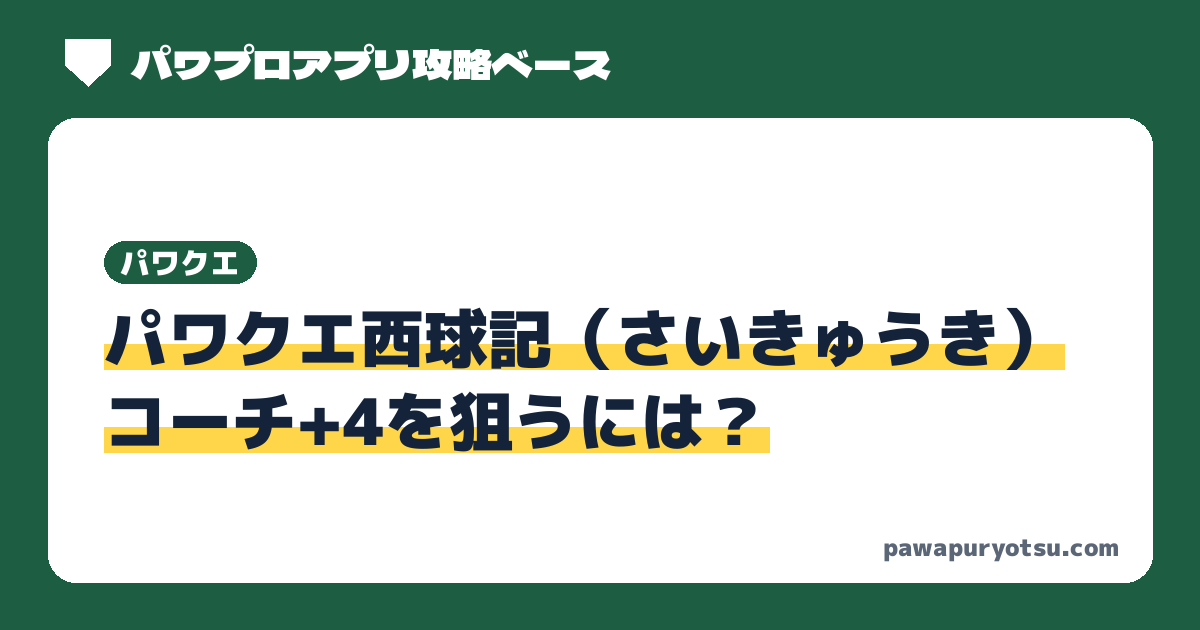
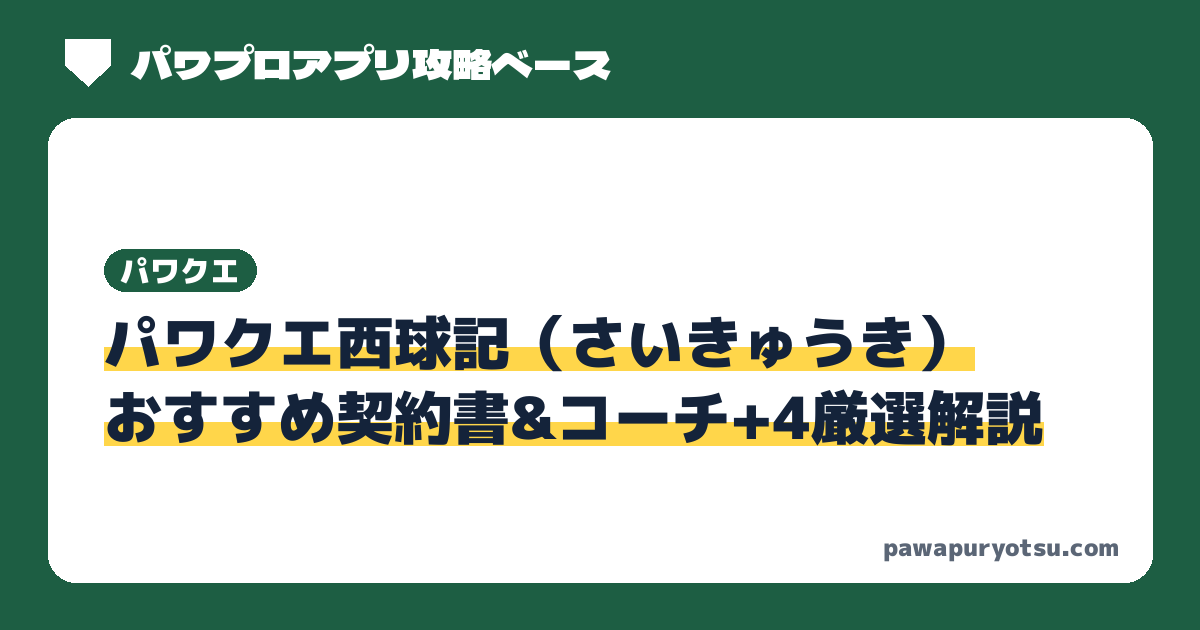
西球記：コーチ+4記事のタイトルを「おすすめ契約書&コーチ+4厳選解説」に変更
Claude-Session: https://claude.ai/code/session_019YJeSxWzSmHS2gUevN1rqG

Changed region(s): [[0.0925, 0.3619, 0.8942, 0.7238]]

diff --git a/docs/pawaque/saikyuki/coach4/index.html b/docs/pawaque/saikyuki/coach4/index.html
@@ -4,12 +4,12 @@
 <meta charset="utf-8">
 <meta name="viewport" content="width=device-width,initial-scale=1,viewport-fit=cover">
 <meta name="color-scheme" content="light">
-<title>パワクエ西球記（さいきゅうき）コーチ+4を狙うには？｜パワプロアプリ攻略ベース</title>
+<title>パワクエ西球記（さいきゅうき）おすすめ契約書&コーチ+4厳選解説｜パワプロアプリ攻略ベース</title>
 <meta name="description" content="パワプロアプリのパワクエ「西球記（さいきゅうき）」で、契約書のコーチ人数+4を狙う方法と、おすすめの契約書、神前試合などで手に入る別バージョンキャラの一覧をまとめています。">
 <link rel="canonical" href="https://pawapuryotsu.com/pawaque/saikyuki/coach4/">
 <meta property="og:type" content="website">
 <meta property="og:site_name" content="パワプロアプリ攻略ベース">
-<meta property="og:title" content="パワクエ西球記（さいきゅうき）コーチ+4を狙うには？｜パワプロアプリ攻略ベース">
+<meta property="og:title" content="パワクエ西球記（さいきゅうき）おすすめ契約書&コーチ+4厳選解説｜パワプロアプリ攻略ベース">
 <meta property="og:description" content="パワプロアプリのパワクエ「西球記（さいきゅうき）」で、契約書のコーチ人数+4を狙う方法と、おすすめの契約書、神前試合などで手に入る別バージョンキャラの一覧をまとめています。">
 <meta property="og:url" content="https://pawapuryotsu.com/pawaque/saikyuki/coach4/">
 <meta property="og:image" content="https://pawapuryotsu.com/img/og/pawaque_saikyuki_coach4.png">
@@ -29,7 +29,7 @@
 <script async src="https://pagead2.googlesyndication.com/pagead/js/adsbygoogle.js?client=ca-pub-8546020269968696" crossorigin="anonymous"></script>
 <script async src="https://www.googletagmanager.com/gtag/js?id=G-F98XGNW3LS"></script>
 <script>window.dataLayer=window.dataLayer||[];function gtag(){dataLayer.push(arguments)}gtag('js',new Date());gtag('config','G-F98XGNW3LS');</script><meta name="google-site-verification" content="ZgxID967oum-2Mm1F5BCX9gvQE_vNl2ZDbXXWfyYP10" />
-<script type="application/ld+json">{"@context": "https://schema.org", "@type": "BreadcrumbList", "itemListElement": [{"@type": "ListItem", "position": 1, "name": "トップ", "item": "https://pawapuryotsu.com/"}, {"@type": "ListItem", "position": 2, "name": "パワクエ", "item": "https://pawapuryotsu.com/pawaque/"}, {"@type": "ListItem", "position": 3, "name": "西球記", "item": "https://pawapuryotsu.com/pawaque/saikyuki/"}, {"@type": "ListItem", "position": 4, "name": "コーチ+4を狙うには？", "item": "https://pawapuryotsu.com/pawaque/saikyuki/coach4/"}]}</script>
+<script type="application/ld+json">{"@context": "https://schema.org", "@type": "BreadcrumbList", "itemListElement": [{"@type": "ListItem", "position": 1, "name": "トップ", "item": "https://pawapuryotsu.com/"}, {"@type": "ListItem", "position": 2, "name": "パワクエ", "item": "https://pawapuryotsu.com/pawaque/"}, {"@type": "ListItem", "position": 3, "name": "西球記", "item": "https://pawapuryotsu.com/pawaque/saikyuki/"}, {"@type": "ListItem", "position": 4, "name": "おすすめ契約書&コーチ+4厳選解説", "item": "https://pawapuryotsu.com/pawaque/saikyuki/coach4/"}]}</script>
 </head>
 <body data-root="../../../">
 <svg width="0" height="0" style="position:absolute" aria-hidden="true">
@@ -55,7 +55,7 @@
 </div></header>
 
 <main><div class="wrap" id="page">
-<nav class="crumbs" aria-label="パンくずリスト"><ol><li><a href="../../../">トップ</a></li><li><a href="../../../pawaque/">パワクエ</a></li><li><a href="../../../pawaque/saikyuki/">西球記</a></li><li aria-current="page">コーチ+4を狙うには？</li></ol></nav>
+<nav class="crumbs" aria-label="パンくずリスト"><ol><li><a href="../../../">トップ</a></li><li><a href="../../../pawaque/">パワクエ</a></li><li><a href="../../../pawaque/saikyuki/">西球記</a></li><li aria-current="page">おすすめ契約書&amp;コーチ+4厳選解説</li></ol></nav>
 <!-- 2026-11-22 管理人：新ページ「コーチ+4を狙うには？」。本文は tools/pawaque_coach4.py が src/pawaque_data/saikyuki_coach4.json と契約書シミュレータのデータから作る（C4:START〜END は手で書かない）。 -->
 <style>
 .c4-v{color:#1a5fd0;font-weight:700}
@@ -96,7 +96,7 @@
  .c4-mb{display:inline}
 }
 </style>
-<section class="phead"><p class="eyebrow">パワクエ 西球記</p><h1><span class="mk"><i>コーチ+4を狙うには？</i></span></h1><p>コーチ人数+4の契約書を狙う方法と、おすすめの契約書・<span class="cp-nw">別バージョンキャラ一覧を</span><span class="cp-nw">まとめました。</span></p></section>
+<section class="phead"><p class="eyebrow">パワクエ 西球記</p><h1><span class="mk"><i>おすすめ契約書&amp;<span class="cp-nw">コーチ+4厳選解説</span></i></span></h1><p>コーチ人数+4の契約書を狙う方法と、おすすめの契約書・<span class="cp-nw">別バージョンキャラ一覧を</span><span class="cp-nw">まとめました。</span></p></section>
 <div class="prose">
   <!-- C4:START -->
   <nav class="toc" aria-label="このページの目次">
@@ -152,7 +152,7 @@
     <a class="sk-c" href="../../../pawaque/saikyuki/drop/"><span class="sk-th sk-img"><img src="../../../img/pawaque/saikyuki_link_drop.jpg" alt="交渉の指輪" width="311" height="121"></span><span class="sk-l">重要<span class="cp-nw">アイテム一覧</span></span><span class="sk-upd" data-end="2026-11-27T14:00:00+09:00">※11/20更新!</span><span class="sk-s"></span></a>
     <a class="sk-c" href="../../../pawaque/saikyuki/shinzen/"><span class="sk-th sk-img"><img src="../../../img/pawaque/saikyuki_link_shinzen.jpg" alt="神前試合の画面" width="660" height="334"></span><span class="sk-l">神前試合<span class="cp-nw">まとめ</span></span><span class="sk-upd" data-end="2026-11-26T14:00:00+09:00">※11/19更新!</span><span class="sk-s">38校の進化対象・<wbr>スカウト候補</span></a>
     <a class="sk-c" href="../../../pawaque/saikyuki/niji/"><span class="sk-th sk-img"><img src="../../../img/pawaque/saikyuki_link_niji.jpg" alt="真・精密機械" width="151" height="50"></span><span class="sk-l">虹特の<span class="cp-nw">査定まとめ</span></span><span class="sk-upd" data-end="2026-11-28T14:00:00+09:00">※11/21更新!</span><span class="sk-s">17種類の査定と<wbr>進化できる対戦相手</span></a>
-    <span class="sk-c sk-cur" aria-current="page"><span class="sk-th sk-img"><img src="../../../img/pawaque/saikyuki_link_coach4.jpg" alt="野球マン5号の契約書のコーチ人数+4" width="311" height="121"></span><span class="sk-l">コーチ+4を<span class="cp-nw">狙うには？</span></span><span class="sk-upd" data-end="2026-11-29T14:00:00+09:00">※11/22更新!</span><span class="sk-s">狙い方と<wbr>おすすめ契約書</span><span class="sk-now">表示中のページ</span></span>
+    <span class="sk-c sk-cur" aria-current="page"><span class="sk-th sk-img"><img src="../../../img/pawaque/saikyuki_link_coach4.jpg" alt="野球マン5号の契約書のコーチ人数+4" width="311" height="121"></span><span class="sk-l">おすすめ契約書&amp;<span class="cp-nw">コーチ+4厳選解説</span></span><span class="sk-upd" data-end="2026-11-29T14:00:00+09:00">※11/22更新!</span><span class="sk-s">狙い方と<wbr>おすすめ契約書</span><span class="sk-now">表示中のページ</span></span>
     <a class="sk-c" href="../../../pawaque/mission/"><span class="sk-th sk-img"><img src="../../../img/pawaque/saikyuki_link_mission.jpg" alt="ミッションの画面" width="232" height="161"></span><span class="sk-l">ミッション<span class="cp-nw">報酬</span></span><span class="sk-s">西球記の105件を<wbr>掲載</span></a>
     <a class="sk-c" href="../../../pawaque/contract_simulator/"><span class="sk-th">画像準備中</span><span class="sk-l">契約書<span class="cp-nw">シミュレータ</span></span><span class="sk-s"></span></a>
     <span class="sk-fill" aria-hidden="true"></span>

diff --git a/src/pages/pawaque-saikyuki-coach4.html b/src/pages/pawaque-saikyuki-coach4.html
@@ -1,10 +1,10 @@
 <!--
-title: パワクエ西球記（さいきゅうき）コーチ+4を狙うには？｜パワプロアプリ攻略ベース
+title: パワクエ西球記（さいきゅうき）おすすめ契約書&コーチ+4厳選解説｜パワプロアプリ攻略ベース
 description: パワプロアプリのパワクエ「西球記（さいきゅうき）」で、契約書のコーチ人数+4を狙う方法と、おすすめの契約書、神前試合などで手に入る別バージョンキャラの一覧をまとめています。
 path: pawaque/saikyuki/coach4/
 nav: pawaque
-crumb: コーチ+4を狙うには？
-card_title: 西球記でコーチ+4を狙うには？
+crumb: おすすめ契約書&コーチ+4厳選解説
+card_title: 西球記 おすすめ契約書&コーチ+4厳選解説
 card: コーチ+4の狙い方と、おすすめの別バージョン契約書を<span class="cp-nw">まとめました。</span>
 pq_order: 9
 sk_updated: 2026-11-22
@@ -49,7 +49,7 @@ sk_updated: 2026-11-22
  .c4-mb{display:inline}
 }
 </style>
-<section class="phead"><p class="eyebrow">パワクエ 西球記</p><h1><span class="mk"><i>コーチ+4を狙うには？</i></span></h1><p>コーチ人数+4の契約書を狙う方法と、おすすめの契約書・<span class="cp-nw">別バージョンキャラ一覧を</span><span class="cp-nw">まとめました。</span></p></section>
+<section class="phead"><p class="eyebrow">パワクエ 西球記</p><h1><span class="mk"><i>おすすめ契約書&amp;<span class="cp-nw">コーチ+4厳選解説</span></i></span></h1><p>コーチ人数+4の契約書を狙う方法と、おすすめの契約書・<span class="cp-nw">別バージョンキャラ一覧を</span><span class="cp-nw">まとめました。</span></p></section>
 <div class="prose">
   <!-- C4:START -->
   <nav class="toc" aria-label="このページの目次">
@@ -105,7 +105,7 @@ sk_updated: 2026-11-22
     <a class="sk-c" href="{{root}}pawaque/saikyuki/drop/"><span class="sk-th sk-img"><img src="{{root}}img/pawaque/saikyuki_link_drop.jpg" alt="交渉の指輪" width="311" height="121"></span><span class="sk-l">重要<span class="cp-nw">アイテム一覧</span></span><span class="sk-upd" data-end="2026-11-27T14:00:00+09:00">※11/20更新!</span><span class="sk-s"></span></a>
     <a class="sk-c" href="{{root}}pawaque/saikyuki/shinzen/"><span class="sk-th sk-img"><img src="{{root}}img/pawaque/saikyuki_link_shinzen.jpg" alt="神前試合の画面" width="660" height="334"></span><span class="sk-l">神前試合<span class="cp-nw">まとめ</span></span><span class="sk-upd" data-end="2026-11-26T14:00:00+09:00">※11/19更新!</span><span class="sk-s">38校の進化対象・<wbr>スカウト候補</span></a>
     <a class="sk-c" href="{{root}}pawaque/saikyuki/niji/"><span class="sk-th sk-img"><img src="{{root}}img/pawaque/saikyuki_link_niji.jpg" alt="真・精密機械" width="151" height="50"></span><span class="sk-l">虹特の<span class="cp-nw">査定まとめ</span></span><span class="sk-upd" data-end="2026-11-28T14:00:00+09:00">※11/21更新!</span><span class="sk-s">17種類の査定と<wbr>進化できる対戦相手</span></a>
-    <span class="sk-c sk-cur" aria-current="page"><span class="sk-th sk-img"><img src="{{root}}img/pawaque/saikyuki_link_coach4.jpg" alt="野球マン5号の契約書のコーチ人数+4" width="311" height="121"></span><span class="sk-l">コーチ+4を<span class="cp-nw">狙うには？</span></span><span class="sk-upd" data-end="2026-11-29T14:00:00+09:00">※11/22更新!</span><span class="sk-s">狙い方と<wbr>おすすめ契約書</span><span class="sk-now">表示中のページ</span></span>
+    <span class="sk-c sk-cur" aria-current="page"><span class="sk-th sk-img"><img src="{{root}}img/pawaque/saikyuki_link_coach4.jpg" alt="野球マン5号の契約書のコーチ人数+4" width="311" height="121"></span><span class="sk-l">おすすめ契約書&amp;<span class="cp-nw">コーチ+4厳選解説</span></span><span class="sk-upd" data-end="2026-11-29T14:00:00+09:00">※11/22更新!</span><span class="sk-s">狙い方と<wbr>おすすめ契約書</span><span class="sk-now">表示中のページ</span></span>
     <a class="sk-c" href="{{root}}pawaque/mission/"><span class="sk-th sk-img"><img src="{{root}}img/pawaque/saikyuki_link_mission.jpg" alt="ミッションの画面" width="232" height="161"></span><span class="sk-l">ミッション<span class="cp-nw">報酬</span></span><span class="sk-s">西球記の105件を<wbr>掲載</span></a>
     <a class="sk-c" href="{{root}}pawaque/contract_simulator/"><span class="sk-th">画像準備中</span><span class="sk-l">契約書<span class="cp-nw">シミュレータ</span></span><span class="sk-s"></span></a>
     <span class="sk-fill" aria-hidden="true"></span>

diff --git a/src/pages/pawaque-saikyuki.html b/src/pages/pawaque-saikyuki.html
@@ -21,7 +21,7 @@ pq_latest: yes
   <h2 id="recent">最近の更新</h2>
   <ul class="news recent sk-recent">
     <li><a href="{{root}}pawaque/saikyuki/muzu/"><img class="news-icon news-logo sk-rc-img" src="{{root}}img/pawaque/saikyuki_link_muzu.jpg" alt="" width="80" height="44" loading="lazy"><span><small class="rc-meta">2026/11/22 更新</small><b>むずクエ攻略＆周回</b></span></a></li>
-    <li><a href="{{root}}pawaque/saikyuki/coach4/"><img class="news-icon news-logo sk-rc-img" src="{{root}}img/pawaque/saikyuki_link_coach4.jpg" alt="" width="80" height="44" loading="lazy"><span><small class="rc-meta">2026/11/22 更新</small><b>コーチ+4を狙うには？</b></span></a></li>
+    <li><a href="{{root}}pawaque/saikyuki/coach4/"><img class="news-icon news-logo sk-rc-img" src="{{root}}img/pawaque/saikyuki_link_coach4.jpg" alt="" width="80" height="44" loading="lazy"><span><small class="rc-meta">2026/11/22 更新</small><b>おすすめ契約書&amp;コーチ+4厳選解説</b></span></a></li>
     <li><a href="{{root}}pawaque/saikyuki/q18/"><img class="news-icon news-logo sk-rc-img" src="{{root}}img/pawaque/saikyuki_link_q18.jpg" alt="" width="80" height="44" loading="lazy"><span><small class="rc-meta">2026/11/21 更新</small><b>⑱道中2周回</b></span></a></li>
     <li><a href="{{root}}pawaque/saikyuki/q19/"><img class="news-icon news-logo sk-rc-img" src="{{root}}img/pawaque/saikyuki_link_q19.jpg" alt="" width="80" height="44" loading="lazy"><span><small class="rc-meta">2026/11/21 更新</small><b>⑲道中3周回</b></span></a></li>
     <li><a href="{{root}}pawaque/saikyuki/niji/"><img class="news-icon news-logo sk-rc-img" src="{{root}}img/pawaque/saikyuki_link_niji.jpg" alt="" width="80" height="44" loading="lazy"><span><small class="rc-meta">2026/11/21 更新</small><b>虹特の査定まとめ</b></span></a></li>
@@ -34,7 +34,7 @@ pq_latest: yes
     <a class="sk-c" href="{{root}}pawaque/saikyuki/drop/"><span class="sk-th sk-img"><img src="{{root}}img/pawaque/saikyuki_link_drop.jpg" alt="交渉の指輪" width="311" height="121"></span><span class="sk-l">重要<span class="cp-nw">アイテム一覧</span></span><span class="sk-upd" data-end="2026-11-27T14:00:00+09:00">※11/20更新!</span><span class="sk-s"></span></a>
     <a class="sk-c" href="{{root}}pawaque/saikyuki/shinzen/"><span class="sk-th sk-img"><img src="{{root}}img/pawaque/saikyuki_link_shinzen.jpg" alt="神前試合の画面" width="660" height="334"></span><span class="sk-l">神前試合<span class="cp-nw">まとめ</span></span><span class="sk-upd" data-end="2026-11-26T14:00:00+09:00">※11/19更新!</span><span class="sk-s">38校の進化対象・<wbr>スカウト候補</span></a>
     <a class="sk-c" href="{{root}}pawaque/saikyuki/niji/"><span class="sk-th sk-img"><img src="{{root}}img/pawaque/saikyuki_link_niji.jpg" alt="真・精密機械" width="151" height="50"></span><span class="sk-l">虹特の<span class="cp-nw">査定まとめ</span></span><span class="sk-upd" data-end="2026-11-28T14:00:00+09:00">※11/21更新!</span><span class="sk-s">17種類の査定と<wbr>進化できる対戦相手</span></a>
-    <a class="sk-c" href="{{root}}pawaque/saikyuki/coach4/"><span class="sk-th sk-img"><img src="{{root}}img/pawaque/saikyuki_link_coach4.jpg" alt="野球マン5号の契約書のコーチ人数+4" width="311" height="121"></span><span class="sk-l">コーチ+4を<span class="cp-nw">狙うには？</span></span><span class="sk-upd" data-end="2026-11-29T14:00:00+09:00">※11/22更新!</span><span class="sk-s">狙い方と<wbr>おすすめ契約書</span></a>
+    <a class="sk-c" href="{{root}}pawaque/saikyuki/coach4/"><span class="sk-th sk-img"><img src="{{root}}img/pawaque/saikyuki_link_coach4.jpg" alt="野球マン5号の契約書のコーチ人数+4" width="311" height="121"></span><span class="sk-l">おすすめ契約書&amp;<span class="cp-nw">コーチ+4厳選解説</span></span><span class="sk-upd" data-end="2026-11-29T14:00:00+09:00">※11/22更新!</span><span class="sk-s">狙い方と<wbr>おすすめ契約書</span></a>
     <a class="sk-c" href="{{root}}pawaque/mission/"><span class="sk-th sk-img"><img src="{{root}}img/pawaque/saikyuki_link_mission.jpg" alt="ミッションの画面" width="232" height="161"></span><span class="sk-l">ミッション<span class="cp-nw">報酬</span></span><span class="sk-s">西球記の105件を<wbr>掲載</span></a>
     <a class="sk-c" href="{{root}}pawaque/contract_simulator/"><span class="sk-th">画像準備中</span><span class="sk-l">契約書<span class="cp-nw">シミュレータ</span></span><span class="sk-s"></span></a>
     <span class="sk-fill" aria-hidden="true"></span>

diff --git a/docs/pawaque/saikyuki/index.html b/docs/pawaque/saikyuki/index.html
@@ -66,7 +66,7 @@
   <h2 id="recent">最近の更新</h2>
   <ul class="news recent sk-recent">
     <li><a href="../../pawaque/saikyuki/muzu/"><img class="news-icon news-logo sk-rc-img" src="../../img/pawaque/saikyuki_link_muzu.jpg" alt="" width="80" height="44" loading="lazy"><span><small class="rc-meta">2026/11/22 更新</small><b>むずクエ攻略＆周回</b></span></a></li>
-    <li><a href="../../pawaque/saikyuki/coach4/"><img class="news-icon news-logo sk-rc-img" src="../../img/pawaque/saikyuki_link_coach4.jpg" alt="" width="80" height="44" loading="lazy"><span><small class="rc-meta">2026/11/22 更新</small><b>コーチ+4を狙うには？</b></span></a></li>
+    <li><a href="../../pawaque/saikyuki/coach4/"><img class="news-icon news-logo sk-rc-img" src="../../img/pawaque/saikyuki_link_coach4.jpg" alt="" width="80" height="44" loading="lazy"><span><small class="rc-meta">2026/11/22 更新</small><b>おすすめ契約書&amp;コーチ+4厳選解説</b></span></a></li>
     <li><a href="../../pawaque/saikyuki/q18/"><img class="news-icon news-logo sk-rc-img" src="../../img/pawaque/saikyuki_link_q18.jpg" alt="" width="80" height="44" loading="lazy"><span><small class="rc-meta">2026/11/21 更新</small><b>⑱道中2周回</b></span></a></li>
     <li><a href="../../pawaque/saikyuki/q19/"><img class="news-icon news-logo sk-rc-img" src="../../img/pawaque/saikyuki_link_q19.jpg" alt="" width="80" height="44" loading="lazy"><span><small class="rc-meta">2026/11/21 更新</small><b>⑲道中3周回</b></span></a></li>
     <li><a href="../../pawaque/saikyuki/niji/"><img class="news-icon news-logo sk-rc-img" src="../../img/pawaque/saikyuki_link_niji.jpg" alt="" width="80" height="44" loading="lazy"><span><small class="rc-meta">2026/11/21 更新</small><b>虹特の査定まとめ</b></span></a></li>
@@ -79,7 +79,7 @@
     <a class="sk-c" href="../../pawaque/saikyuki/drop/"><span class="sk-th sk-img"><img src="../../img/pawaque/saikyuki_link_drop.jpg" alt="交渉の指輪" width="311" height="121"></span><span class="sk-l">重要<span class="cp-nw">アイテム一覧</span></span><span class="sk-upd" data-end="2026-11-27T14:00:00+09:00">※11/20更新!</span><span class="sk-s"></span></a>
     <a class="sk-c" href="../../pawaque/saikyuki/shinzen/"><span class="sk-th sk-img"><img src="../../img/pawaque/saikyuki_link_shinzen.jpg" alt="神前試合の画面" width="660" height="334"></span><span class="sk-l">神前試合<span class="cp-nw">まとめ</span></span><span class="sk-upd" data-end="2026-11-26T14:00:00+09:00">※11/19更新!</span><span class="sk-s">38校の進化対象・<wbr>スカウト候補</span></a>
     <a class="sk-c" href="../../pawaque/saikyuki/niji/"><span class="sk-th sk-img"><img src="../../img/pawaque/saikyuki_link_niji.jpg" alt="真・精密機械" width="151" height="50"></span><span class="sk-l">虹特の<span class="cp-nw">査定まとめ</span></span><span class="sk-upd" data-end="2026-11-28T14:00:00+09:00">※11/21更新!</span><span class="sk-s">17種類の査定と<wbr>進化できる対戦相手</span></a>
-    <a class="sk-c" href="../../pawaque/saikyuki/coach4/"><span class="sk-th sk-img"><img src="../../img/pawaque/saikyuki_link_coach4.jpg" alt="野球マン5号の契約書のコーチ人数+4" width="311" height="121"></span><span class="sk-l">コーチ+4を<span class="cp-nw">狙うには？</span></span><span class="sk-upd" data-end="2026-11-29T14:00:00+09:00">※11/22更新!</span><span class="sk-s">狙い方と<wbr>おすすめ契約書</span></a>
+    <a class="sk-c" href="../../pawaque/saikyuki/coach4/"><span class="sk-th sk-img"><img src="../../img/pawaque/saikyuki_link_coach4.jpg" alt="野球マン5号の契約書のコーチ人数+4" width="311" height="121"></span><span class="sk-l">おすすめ契約書&amp;<span class="cp-nw">コーチ+4厳選解説</span></span><span class="sk-upd" data-end="2026-11-29T14:00:00+09:00">※11/22更新!</span><span class="sk-s">狙い方と<wbr>おすすめ契約書</span></a>
     <a class="sk-c" href="../../pawaque/mission/"><span class="sk-th sk-img"><img src="../../img/pawaque/saikyuki_link_mission.jpg" alt="ミッションの画面" width="232" height="161"></span><span class="sk-l">ミッション<span class="cp-nw">報酬</span></span><span class="sk-s">西球記の105件を<wbr>掲載</span></a>
     <a class="sk-c" href="../../pawaque/contract_simulator/"><span class="sk-th">画像準備中</span><span class="sk-l">契約書<span class="cp-nw">シミュレータ</span></span><span class="sk-s"></span></a>
     <span class="sk-fill" aria-hidden="true"></span>

diff --git a/src/pages/pawaque-saikyuki-drop.html b/src/pages/pawaque-saikyuki-drop.html
@@ -142,7 +142,7 @@ sk_updated: 2026-11-20
     <span class="sk-c sk-cur" aria-current="page"><span class="sk-th sk-img"><img src="{{root}}img/pawaque/saikyuki_link_drop.jpg" alt="交渉の指輪" width="311" height="121"></span><span class="sk-l">重要<span class="cp-nw">アイテム一覧</span></span><span class="sk-upd" data-end="2026-11-27T14:00:00+09:00">※11/20更新!</span><span class="sk-s"></span><span class="sk-now">表示中のページ</span></span>
     <a class="sk-c" href="{{root}}pawaque/saikyuki/shinzen/"><span class="sk-th sk-img"><img src="{{root}}img/pawaque/saikyuki_link_shinzen.jpg" alt="神前試合の画面" width="660" height="334"></span><span class="sk-l">神前試合<span class="cp-nw">まとめ</span></span><span class="sk-upd" data-end="2026-11-26T14:00:00+09:00">※11/19更新!</span><span class="sk-s">38校の進化対象・<wbr>スカウト候補</span></a>
     <a class="sk-c" href="{{root}}pawaque/saikyuki/niji/"><span class="sk-th sk-img"><img src="{{root}}img/pawaque/saikyuki_link_niji.jpg" alt="真・精密機械" width="151" height="50"></span><span class="sk-l">虹特の<span class="cp-nw">査定まとめ</span></span><span class="sk-upd" data-end="2026-11-28T14:00:00+09:00">※11/21更新!</span><span class="sk-s">17種類の査定と<wbr>進化できる対戦相手</span></a>
-    <a class="sk-c" href="{{root}}pawaque/saikyuki/coach4/"><span class="sk-th sk-img"><img src="{{root}}img/pawaque/saikyuki_link_coach4.jpg" alt="野球マン5号の契約書のコーチ人数+4" width="311" height="121"></span><span class="sk-l">コーチ+4を<span class="cp-nw">狙うには？</span></span><span class="sk-upd" data-end="2026-11-29T14:00:00+09:00">※11/22更新!</span><span class="sk-s">狙い方と<wbr>おすすめ契約書</span></a>
+    <a class="sk-c" href="{{root}}pawaque/saikyuki/coach4/"><span class="sk-th sk-img"><img src="{{root}}img/pawaque/saikyuki_link_coach4.jpg" alt="野球マン5号の契約書のコーチ人数+4" width="311" height="121"></span><span class="sk-l">おすすめ契約書&amp;<span class="cp-nw">コーチ+4厳選解説</span></span><span class="sk-upd" data-end="2026-11-29T14:00:00+09:00">※11/22更新!</span><span class="sk-s">狙い方と<wbr>おすすめ契約書</span></a>
     <a class="sk-c" href="{{root}}pawaque/mission/"><span class="sk-th sk-img"><img src="{{root}}img/pawaque/saikyuki_link_mission.jpg" alt="ミッションの画面" width="232" height="161"></span><span class="sk-l">ミッション<span class="cp-nw">報酬</span></span><span class="sk-s">西球記の105件を<wbr>掲載</span></a>
     <a class="sk-c" href="{{root}}pawaque/contract_simulator/"><span class="sk-th">画像準備中</span><span class="sk-l">契約書<span class="cp-nw">シミュレータ</span></span><span class="sk-s"></span></a>
     <span class="sk-fill" aria-hidden="true"></span>

diff --git a/src/pages/pawaque-saikyuki-niji.html b/src/pages/pawaque-saikyuki-niji.html
@@ -200,7 +200,7 @@ sk_updated: 2026-11-21
     <a class="sk-c" href="{{root}}pawaque/saikyuki/drop/"><span class="sk-th sk-img"><img src="{{root}}img/pawaque/saikyuki_link_drop.jpg" alt="交渉の指輪" width="311" height="121"></span><span class="sk-l">重要<span class="cp-nw">アイテム一覧</span></span><span class="sk-upd" data-end="2026-11-27T14:00:00+09:00">※11/20更新!</span><span class="sk-s"></span></a>
     <a class="sk-c" href="{{root}}pawaque/saikyuki/shinzen/"><span class="sk-th sk-img"><img src="{{root}}img/pawaque/saikyuki_link_shinzen.jpg" alt="神前試合の画面" width="660" height="334"></span><span class="sk-l">神前試合<span class="cp-nw">まとめ</span></span><span class="sk-upd" data-end="2026-11-26T14:00:00+09:00">※11/19更新!</span><span class="sk-s">38校の進化対象・<wbr>スカウト候補</span></a>
     <span class="sk-c sk-cur" aria-current="page"><span class="sk-th sk-img"><img src="{{root}}img/pawaque/saikyuki_link_niji.jpg" alt="真・精密機械" width="151" height="50"></span><span class="sk-l">虹特の<span class="cp-nw">査定まとめ</span></span><span class="sk-upd" data-end="2026-11-28T14:00:00+09:00">※11/21更新!</span><span class="sk-s">17種類の査定と<wbr>進化できる対戦相手</span><span class="sk-now">表示中のページ</span></span>
-    <a class="sk-c" href="{{root}}pawaque/saikyuki/coach4/"><span class="sk-th sk-img"><img src="{{root}}img/pawaque/saikyuki_link_coach4.jpg" alt="野球マン5号の契約書のコーチ人数+4" width="311" height="121"></span><span class="sk-l">コーチ+4を<span class="cp-nw">狙うには？</span></span><span class="sk-upd" data-end="2026-11-29T14:00:00+09:00">※11/22更新!</span><span class="sk-s">狙い方と<wbr>おすすめ契約書</span></a>
+    <a class="sk-c" href="{{root}}pawaque/saikyuki/coach4/"><span class="sk-th sk-img"><img src="{{root}}img/pawaque/saikyuki_link_coach4.jpg" alt="野球マン5号の契約書のコーチ人数+4" width="311" height="121"></span><span class="sk-l">おすすめ契約書&amp;<span class="cp-nw">コーチ+4厳選解説</span></span><span class="sk-upd" data-end="2026-11-29T14:00:00+09:00">※11/22更新!</span><span class="sk-s">狙い方と<wbr>おすすめ契約書</span></a>
     <a class="sk-c" href="{{root}}pawaque/mission/"><span class="sk-th sk-img"><img src="{{root}}img/pawaque/saikyuki_link_mission.jpg" alt="ミッションの画面" width="232" height="161"></span><span class="sk-l">ミッション<span class="cp-nw">報酬</span></span><span class="sk-s">西球記の105件を<wbr>掲載</span></a>
     <a class="sk-c" href="{{root}}pawaque/contract_simulator/"><span class="sk-th">画像準備中</span><span class="sk-l">契約書<span class="cp-nw">シミュレータ</span></span><span class="sk-s"></span></a>
     <span class="sk-fill" aria-hidden="true"></span>

diff --git a/src/pages/pawaque-saikyuki-shinzen.html b/src/pages/pawaque-saikyuki-shinzen.html
@@ -253,7 +253,7 @@ sk_updated: 2026-11-19
     <a class="sk-c" href="{{root}}pawaque/saikyuki/drop/"><span class="sk-th sk-img"><img src="{{root}}img/pawaque/saikyuki_link_drop.jpg" alt="交渉の指輪" width="311" height="121"></span><span class="sk-l">重要<span class="cp-nw">アイテム一覧</span></span><span class="sk-upd" data-end="2026-11-27T14:00:00+09:00">※11/20更新!</span><span class="sk-s"></span></a>
     <span class="sk-c sk-cur" aria-current="page"><span class="sk-th sk-img"><img src="{{root}}img/pawaque/saikyuki_link_shinzen.jpg" alt="神前試合の画面" width="660" height="334"></span><span class="sk-l">神前試合<span class="cp-nw">まとめ</span></span><span class="sk-upd" data-end="2026-11-26T14:00:00+09:00">※11/19更新!</span><span class="sk-s">38校の進化対象・<wbr>スカウト候補</span><span class="sk-now">表示中のページ</span></span>
     <a class="sk-c" href="{{root}}pawaque/saikyuki/niji/"><span class="sk-th sk-img"><img src="{{root}}img/pawaque/saikyuki_link_niji.jpg" alt="真・精密機械" width="151" height="50"></span><span class="sk-l">虹特の<span class="cp-nw">査定まとめ</span></span><span class="sk-upd" data-end="2026-11-28T14:00:00+09:00">※11/21更新!</span><span class="sk-s">17種類の査定と<wbr>進化できる対戦相手</span></a>
-    <a class="sk-c" href="{{root}}pawaque/saikyuki/coach4/"><span class="sk-th sk-img"><img src="{{root}}img/pawaque/saikyuki_link_coach4.jpg" alt="野球マン5号の契約書のコーチ人数+4" width="311" height="121"></span><span class="sk-l">コーチ+4を<span class="cp-nw">狙うには？</span></span><span class="sk-upd" data-end="2026-11-29T14:00:00+09:00">※11/22更新!</span><span class="sk-s">狙い方と<wbr>おすすめ契約書</span></a>
+    <a class="sk-c" href="{{root}}pawaque/saikyuki/coach4/"><span class="sk-th sk-img"><img src="{{root}}img/pawaque/saikyuki_link_coach4.jpg" alt="野球マン5号の契約書のコーチ人数+4" width="311" height="121"></span><span class="sk-l">おすすめ契約書&amp;<span class="cp-nw">コーチ+4厳選解説</span></span><span class="sk-upd" data-end="2026-11-29T14:00:00+09:00">※11/22更新!</span><span class="sk-s">狙い方と<wbr>おすすめ契約書</span></a>
     <a class="sk-c" href="{{root}}pawaque/mission/"><span class="sk-th sk-img"><img src="{{root}}img/pawaque/saikyuki_link_mission.jpg" alt="ミッションの画面" width="232" height="161"></span><span class="sk-l">ミッション<span class="cp-nw">報酬</span></span><span class="sk-s">西球記の105件を<wbr>掲載</span></a>
     <a class="sk-c" href="{{root}}pawaque/contract_simulator/"><span class="sk-th">画像準備中</span><span class="sk-l">契約書<span class="cp-nw">シミュレータ</span></span><span class="sk-s"></span></a>
     <span class="sk-fill" aria-hidden="true"></span>

diff --git a/docs/pawaque/saikyuki/drop/index.html b/docs/pawaque/saikyuki/drop/index.html
@@ -189,7 +189,7 @@
     <span class="sk-c sk-cur" aria-current="page"><span class="sk-th sk-img"><img src="../../../img/pawaque/saikyuki_link_drop.jpg" alt="交渉の指輪" width="311" height="121"></span><span class="sk-l">重要<span class="cp-nw">アイテム一覧</span></span><span class="sk-upd" data-end="2026-11-27T14:00:00+09:00">※11/20更新!</span><span class="sk-s"></span><span class="sk-now">表示中のページ</span></span>
     <a class="sk-c" href="../../../pawaque/saikyuki/shinzen/"><span class="sk-th sk-img"><img src="../../../img/pawaque/saikyuki_link_shinzen.jpg" alt="神前試合の画面" width="660" height="334"></span><span class="sk-l">神前試合<span class="cp-nw">まとめ</span></span><span class="sk-upd" data-end="2026-11-26T14:00:00+09:00">※11/19更新!</span><span class="sk-s">38校の進化対象・<wbr>スカウト候補</span></a>
     <a class="sk-c" href="../../../pawaque/saikyuki/niji/"><span class="sk-th sk-img"><img src="../../../img/pawaque/saikyuki_link_niji.jpg" alt="真・精密機械" width="151" height="50"></span><span class="sk-l">虹特の<span class="cp-nw">査定まとめ</span></span><span class="sk-upd" data-end="2026-11-28T14:00:00+09:00">※11/21更新!</span><span class="sk-s">17種類の査定と<wbr>進化できる対戦相手</span></a>
-    <a class="sk-c" href="../../../pawaque/saikyuki/coach4/"><span class="sk-th sk-img"><img src="../../../img/pawaque/saikyuki_link_coach4.jpg" alt="野球マン5号の契約書のコーチ人数+4" width="311" height="121"></span><span class="sk-l">コーチ+4を<span class="cp-nw">狙うには？</span></span><span class="sk-upd" data-end="2026-11-29T14:00:00+09:00">※11/22更新!</span><span class="sk-s">狙い方と<wbr>おすすめ契約書</span></a>
+    <a class="sk-c" href="../../../pawaque/saikyuki/coach4/"><span class="sk-th sk-img"><img src="../../../img/pawaque/saikyuki_link_coach4.jpg" alt="野球マン5号の契約書のコーチ人数+4" width="311" height="121"></span><span class="sk-l">おすすめ契約書&amp;<span class="cp-nw">コーチ+4厳選解説</span></span><span class="sk-upd" data-end="2026-11-29T14:00:00+09:00">※11/22更新!</span><span class="sk-s">狙い方と<wbr>おすすめ契約書</span></a>
     <a class="sk-c" href="../../../pawaque/mission/"><span class="sk-th sk-img"><img src="../../../img/pawaque/saikyuki_link_mission.jpg" alt="ミッションの画面" width="232" height="161"></span><span class="sk-l">ミッション<span class="cp-nw">報酬</span></span><span class="sk-s">西球記の105件を<wbr>掲載</span></a>
     <a class="sk-c" href="../../../pawaque/contract_simulator/"><span class="sk-th">画像準備中</span><span class="sk-l">契約書<span class="cp-nw">シミュレータ</span></span><span class="sk-s"></span></a>
     <span class="sk-fill" aria-hidden="true"></span>

diff --git a/docs/pawaque/saikyuki/niji/index.html b/docs/pawaque/saikyuki/niji/index.html
@@ -247,7 +247,7 @@
     <a class="sk-c" href="../../../pawaque/saikyuki/drop/"><span class="sk-th sk-img"><img src="../../../img/pawaque/saikyuki_link_drop.jpg" alt="交渉の指輪" width="311" height="121"></span><span class="sk-l">重要<span class="cp-nw">アイテム一覧</span></span><span class="sk-upd" data-end="2026-11-27T14:00:00+09:00">※11/20更新!</span><span class="sk-s"></span></a>
     <a class="sk-c" href="../../../pawaque/saikyuki/shinzen/"><span class="sk-th sk-img"><img src="../../../img/pawaque/saikyuki_link_shinzen.jpg" alt="神前試合の画面" width="660" height="334"></span><span class="sk-l">神前試合<span class="cp-nw">まとめ</span></span><span class="sk-upd" data-end="2026-11-26T14:00:00+09:00">※11/19更新!</span><span class="sk-s">38校の進化対象・<wbr>スカウト候補</span></a>
     <span class="sk-c sk-cur" aria-current="page"><span class="sk-th sk-img"><img src="../../../img/pawaque/saikyuki_link_niji.jpg" alt="真・精密機械" width="151" height="50"></span><span class="sk-l">虹特の<span class="cp-nw">査定まとめ</span></span><span class="sk-upd" data-end="2026-11-28T14:00:00+09:00">※11/21更新!</span><span class="sk-s">17種類の査定と<wbr>進化できる対戦相手</span><span class="sk-now">表示中のページ</span></span>
-    <a class="sk-c" href="../../../pawaque/saikyuki/coach4/"><span class="sk-th sk-img"><img src="../../../img/pawaque/saikyuki_link_coach4.jpg" alt="野球マン5号の契約書のコーチ人数+4" width="311" height="121"></span><span class="sk-l">コーチ+4を<span class="cp-nw">狙うには？</span></span><span class="sk-upd" data-end="2026-11-29T14:00:00+09:00">※11/22更新!</span><span class="sk-s">狙い方と<wbr>おすすめ契約書</span></a>
+    <a class="sk-c" href="../../../pawaque/saikyuki/coach4/"><span class="sk-th sk-img"><img src="../../../img/pawaque/saikyuki_link_coach4.jpg" alt="野球マン5号の契約書のコーチ人数+4" width="311" height="121"></span><span class="sk-l">おすすめ契約書&amp;<span class="cp-nw">コーチ+4厳選解説</span></span><span class="sk-upd" data-end="2026-11-29T14:00:00+09:00">※11/22更新!</span><span class="sk-s">狙い方と<wbr>おすすめ契約書</span></a>
     <a class="sk-c" href="../../../pawaque/mission/"><span class="sk-th sk-img"><img src="../../../img/pawaque/saikyuki_link_mission.jpg" alt="ミッションの画面" width="232" height="161"></span><span class="sk-l">ミッション<span class="cp-nw">報酬</span></span><span class="sk-s">西球記の105件を<wbr>掲載</span></a>
     <a class="sk-c" href="../../../pawaque/contract_simulator/"><span class="sk-th">画像準備中</span><span class="sk-l">契約書<span class="cp-nw">シミュレータ</span></span><span class="sk-s"></span></a>
     <span class="sk-fill" aria-hidden="true"></span>

diff --git a/docs/pawaque/saikyuki/shinzen/index.html b/docs/pawaque/saikyuki/shinzen/index.html
@@ -300,7 +300,7 @@
     <a class="sk-c" href="../../../pawaque/saikyuki/drop/"><span class="sk-th sk-img"><img src="../../../img/pawaque/saikyuki_link_drop.jpg" alt="交渉の指輪" width="311" height="121"></span><span class="sk-l">重要<span class="cp-nw">アイテム一覧</span></span><span class="sk-upd" data-end="2026-11-27T14:00:00+09:00">※11/20更新!</span><span class="sk-s"></span></a>
     <span class="sk-c sk-cur" aria-current="page"><span class="sk-th sk-img"><img src="../../../img/pawaque/saikyuki_link_shinzen.jpg" alt="神前試合の画面" width="660" height="334"></span><span class="sk-l">神前試合<span class="cp-nw">まとめ</span></span><span class="sk-upd" data-end="2026-11-26T14:00:00+09:00">※11/19更新!</span><span class="sk-s">38校の進化対象・<wbr>スカウト候補</span><span class="sk-now">表示中のページ</span></span>
     <a class="sk-c" href="../../../pawaque/saikyuki/niji/"><span class="sk-th sk-img"><img src="../../../img/pawaque/saikyuki_link_niji.jpg" alt="真・精密機械" width="151" height="50"></span><span class="sk-l">虹特の<span class="cp-nw">査定まとめ</span></span><span class="sk-upd" data-end="2026-11-28T14:00:00+09:00">※11/21更新!</span><span class="sk-s">17種類の査定と<wbr>進化できる対戦相手</span></a>
-    <a class="sk-c" href="../../../pawaque/saikyuki/coach4/"><span class="sk-th sk-img"><img src="../../../img/pawaque/saikyuki_link_coach4.jpg" alt="野球マン5号の契約書のコーチ人数+4" width="311" height="121"></span><span class="sk-l">コーチ+4を<span class="cp-nw">狙うには？</span></span><span class="sk-upd" data-end="2026-11-29T14:00:00+09:00">※11/22更新!</span><span class="sk-s">狙い方と<wbr>おすすめ契約書</span></a>
+    <a class="sk-c" href="../../../pawaque/saikyuki/coach4/"><span class="sk-th sk-img"><img src="../../../img/pawaque/saikyuki_link_coach4.jpg" alt="野球マン5号の契約書のコーチ人数+4" width="311" height="121"></span><span class="sk-l">おすすめ契約書&amp;<span class="cp-nw">コーチ+4厳選解説</span></span><span class="sk-upd" data-end="2026-11-29T14:00:00+09:00">※11/22更新!</span><span class="sk-s">狙い方と<wbr>おすすめ契約書</span></a>
     <a class="sk-c" href="../../../pawaque/mission/"><span class="sk-th sk-img"><img src="../../../img/pawaque/saikyuki_link_mission.jpg" alt="ミッションの画面" width="232" height="161"></span><span class="sk-l">ミッション<span class="cp-nw">報酬</span></span><span class="sk-s">西球記の105件を<wbr>掲載</span></a>
     <a class="sk-c" href="../../../pawaque/contract_simulator/"><span class="sk-th">画像準備中</span><span class="sk-l">契約書<span class="cp-nw">シミュレータ</span></span><span class="sk-s"></span></a>
     <span class="sk-fill" aria-hidden="true"></span>

diff --git a/src/pages/pawaque-saikyuki-muzu.html b/src/pages/pawaque-saikyuki-muzu.html
@@ -330,7 +330,7 @@ sk_updated: 2026-11-22
     <a class="sk-c" href="{{root}}pawaque/saikyuki/drop/"><span class="sk-th sk-img"><img src="{{root}}img/pawaque/saikyuki_link_drop.jpg" alt="交渉の指輪" width="311" height="121"></span><span class="sk-l">重要<span class="cp-nw">アイテム一覧</span></span><span class="sk-upd" data-end="2026-11-27T14:00:00+09:00">※11/20更新!</span><span class="sk-s"></span></a>
     <a class="sk-c" href="{{root}}pawaque/saikyuki/shinzen/"><span class="sk-th sk-img"><img src="{{root}}img/pawaque/saikyuki_link_shinzen.jpg" alt="神前試合の画面" width="660" height="334"></span><span class="sk-l">神前試合<span class="cp-nw">まとめ</span></span><span class="sk-upd" data-end="2026-11-26T14:00:00+09:00">※11/19更新!</span><span class="sk-s">38校の進化対象・<wbr>スカウト候補</span></a>
     <a class="sk-c" href="{{root}}pawaque/saikyuki/niji/"><span class="sk-th sk-img"><img src="{{root}}img/pawaque/saikyuki_link_niji.jpg" alt="真・精密機械" width="151" height="50"></span><span class="sk-l">虹特の<span class="cp-nw">査定まとめ</span></span><span class="sk-upd" data-end="2026-11-28T14:00:00+09:00">※11/21更新!</span><span class="sk-s">17種類の査定と<wbr>進化できる対戦相手</span></a>
-    <a class="sk-c" href="{{root}}pawaque/saikyuki/coach4/"><span class="sk-th sk-img"><img src="{{root}}img/pawaque/saikyuki_link_coach4.jpg" alt="野球マン5号の契約書のコーチ人数+4" width="311" height="121"></span><span class="sk-l">コーチ+4を<span class="cp-nw">狙うには？</span></span><span class="sk-upd" data-end="2026-11-29T14:00:00+09:00">※11/22更新!</span><span class="sk-s">狙い方と<wbr>おすすめ契約書</span></a>
+    <a class="sk-c" href="{{root}}pawaque/saikyuki/coach4/"><span class="sk-th sk-img"><img src="{{root}}img/pawaque/saikyuki_link_coach4.jpg" alt="野球マン5号の契約書のコーチ人数+4" width="311" height="121"></span><span class="sk-l">おすすめ契約書&amp;<span class="cp-nw">コーチ+4厳選解説</span></span><span class="sk-upd" data-end="2026-11-29T14:00:00+09:00">※11/22更新!</span><span class="sk-s">狙い方と<wbr>おすすめ契約書</span></a>
     <a class="sk-c" href="{{root}}pawaque/mission/"><span class="sk-th sk-img"><img src="{{root}}img/pawaque/saikyuki_link_mission.jpg" alt="ミッションの画面" width="232" height="161"></span><span class="sk-l">ミッション<span class="cp-nw">報酬</span></span><span class="sk-s">西球記の105件を<wbr>掲載</span></a>
     <a class="sk-c" href="{{root}}pawaque/contract_simulator/"><span class="sk-th">画像準備中</span><span class="sk-l">契約書<span class="cp-nw">シミュレータ</span></span><span class="sk-s"></span></a>
     <span class="sk-fill" aria-hidden="true"></span>

diff --git a/src/pages/pawaque-saikyuki-q18.html b/src/pages/pawaque-saikyuki-q18.html
@@ -208,7 +208,7 @@ sk_updated: 2026-11-21
     <a class="sk-c" href="{{root}}pawaque/saikyuki/drop/"><span class="sk-th sk-img"><img src="{{root}}img/pawaque/saikyuki_link_drop.jpg" alt="交渉の指輪" width="311" height="121"></span><span class="sk-l">重要<span class="cp-nw">アイテム一覧</span></span><span class="sk-upd" data-end="2026-11-27T14:00:00+09:00">※11/20更新!</span><span class="sk-s"></span></a>
     <a class="sk-c" href="{{root}}pawaque/saikyuki/shinzen/"><span class="sk-th sk-img"><img src="{{root}}img/pawaque/saikyuki_link_shinzen.jpg" alt="神前試合の画面" width="660" height="334"></span><span class="sk-l">神前試合<span class="cp-nw">まとめ</span></span><span class="sk-upd" data-end="2026-11-26T14:00:00+09:00">※11/19更新!</span><span class="sk-s">38校の進化対象・<wbr>スカウト候補</span></a>
     <a class="sk-c" href="{{root}}pawaque/saikyuki/niji/"><span class="sk-th sk-img"><img src="{{root}}img/pawaque/saikyuki_link_niji.jpg" alt="真・精密機械" width="151" height="50"></span><span class="sk-l">虹特の<span class="cp-nw">査定まとめ</span></span><span class="sk-upd" data-end="2026-11-28T14:00:00+09:00">※11/21更新!</span><span class="sk-s">17種類の査定と<wbr>進化できる対戦相手</span></a>
-    <a class="sk-c" href="{{root}}pawaque/saikyuki/coach4/"><span class="sk-th sk-img"><img src="{{root}}img/pawaque/saikyuki_link_coach4.jpg" alt="野球マン5号の契約書のコーチ人数+4" width="311" height="121"></span><span class="sk-l">コーチ+4を<span class="cp-nw">狙うには？</span></span><span class="sk-upd" data-end="2026-11-29T14:00:00+09:00">※11/22更新!</span><span class="sk-s">狙い方と<wbr>おすすめ契約書</span></a>
+    <a class="sk-c" href="{{root}}pawaque/saikyuki/coach4/"><span class="sk-th sk-img"><img src="{{root}}img/pawaque/saikyuki_link_coach4.jpg" alt="野球マン5号の契約書のコーチ人数+4" width="311" height="121"></span><span class="sk-l">おすすめ契約書&amp;<span class="cp-nw">コーチ+4厳選解説</span></span><span class="sk-upd" data-end="2026-11-29T14:00:00+09:00">※11/22更新!</span><span class="sk-s">狙い方と<wbr>おすすめ契約書</span></a>
     <a class="sk-c" href="{{root}}pawaque/mission/"><span class="sk-th sk-img"><img src="{{root}}img/pawaque/saikyuki_link_mission.jpg" alt="ミッションの画面" width="232" height="161"></span><span class="sk-l">ミッション<span class="cp-nw">報酬</span></span><span class="sk-s">西球記の105件を<wbr>掲載</span></a>
     <a class="sk-c" href="{{root}}pawaque/contract_simulator/"><span class="sk-th">画像準備中</span><span class="sk-l">契約書<span class="cp-nw">シミュレータ</span></span><span class="sk-s"></span></a>
     <span class="sk-fill" aria-hidden="true"></span>
